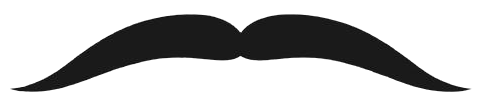
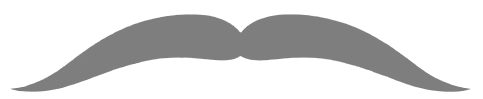
Icones aperfeiçoados
Removendo fundo e mudando para cor mais clara

diff --git a/styles.css b/styles.css
@@ -68,5 +68,5 @@ body {
   img {
     width: 105px;
     height: 30px;
-    background-color: aliceblue;
+    margin-right: 6px;
   }
